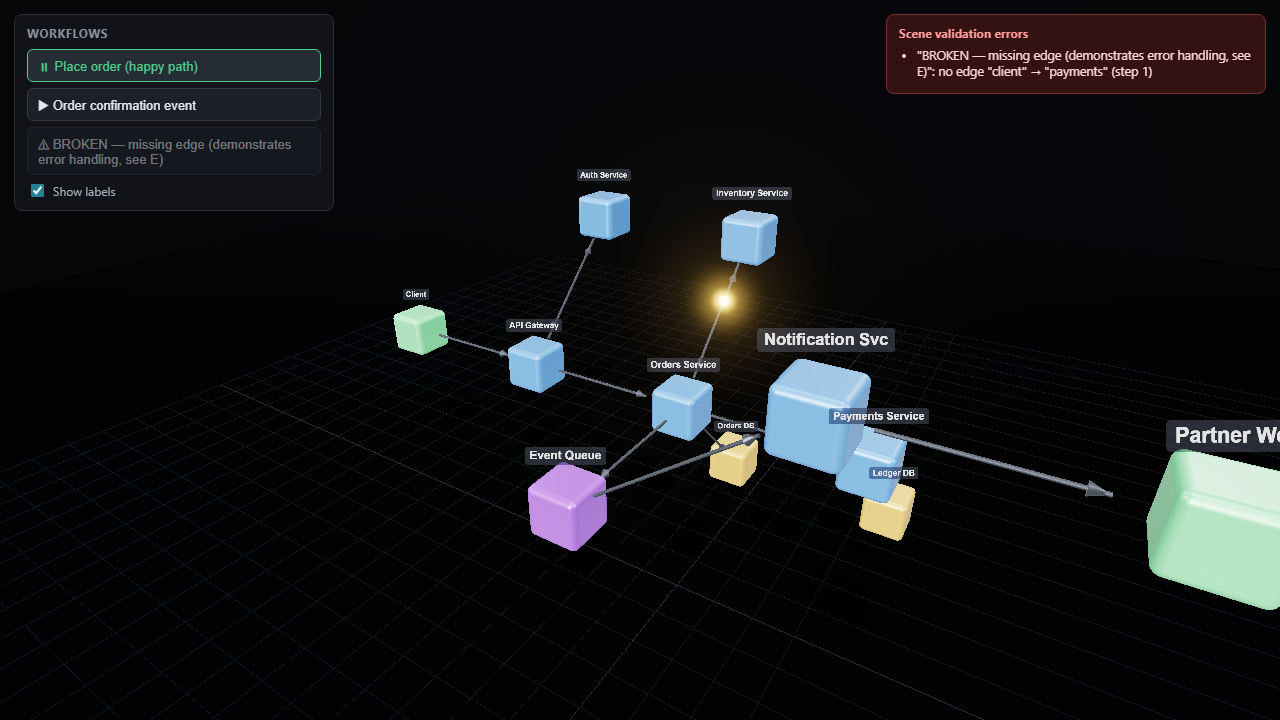
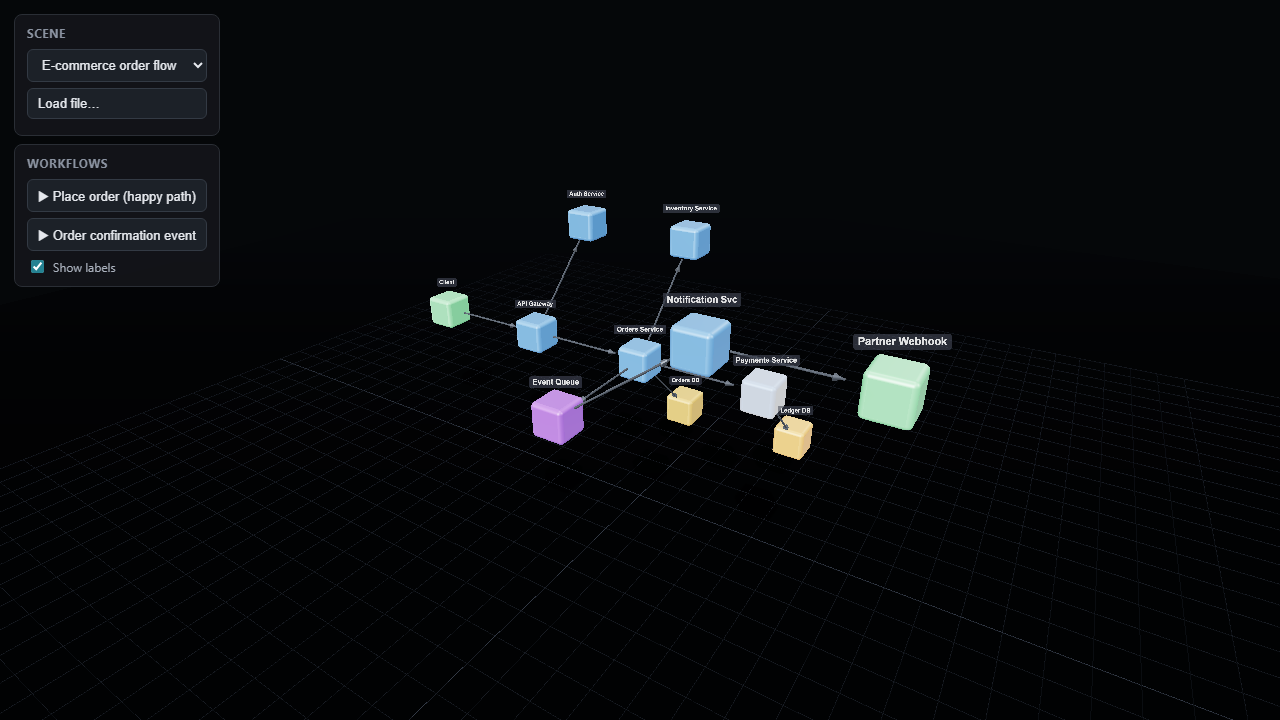
docs(3d-visualizer): refresh stale preview.png
The committed preview predated fix/3d-visualizer-remove-broken-demo-flow
and fix/3d-visualizer-inspect-panel-css: it still showed the removed
BROKEN demo entry and a validation-error panel, which is what read as
"looks a bit off" on the repo's main page.

Root-caused the underlying camera framing too: flyToFlow() (fit-to-flow
zoom) intentionally tightens the view to just the active flow's own
nodes, so nodes outside that flow's path (e.g. notifier/webhook during
the "Place order" flow) can render oversized or clipped as a side
effect of the zoom. That's working as designed for live interaction,
just a bad moment to freeze as a static screenshot. Swapped in the
idle full-graph view instead of touching the camera-fit logic.

diff --git a/README.md b/README.md
@@ -556,7 +556,7 @@ Standalone, single-file Three.js scene (`tools/3d-system-visualizer/index.html`)
 
 No build step, no dependencies to install — it pulls Three.js from a CDN via an import map.
 
-![3D system visualizer mid-workflow](tools/3d-system-visualizer/preview.png)
+![3D system visualizer node graph](tools/3d-system-visualizer/preview.png)
 
 **Run it locally:**
 
